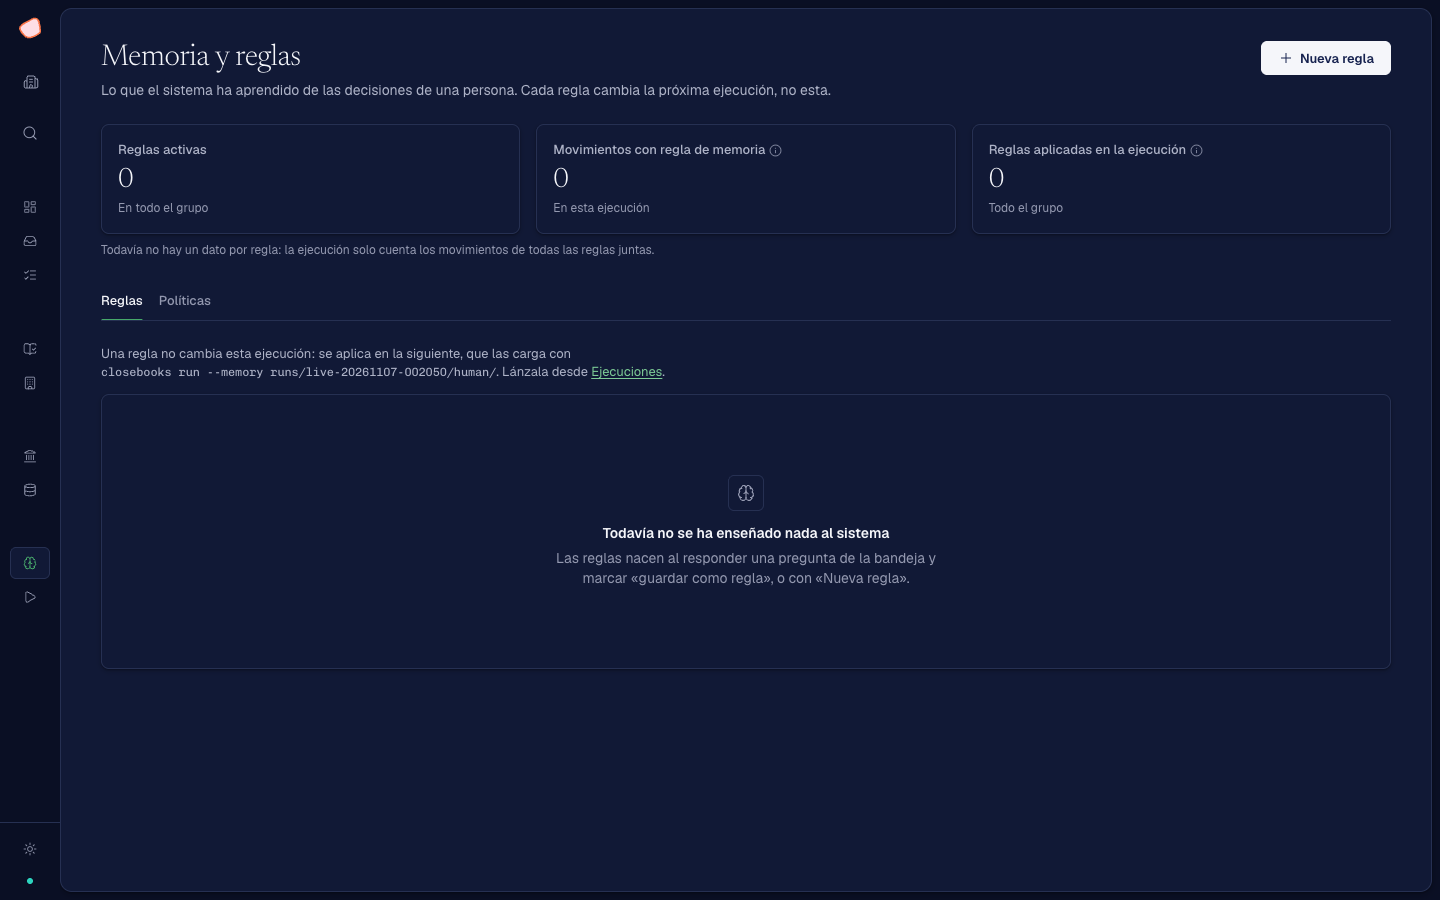
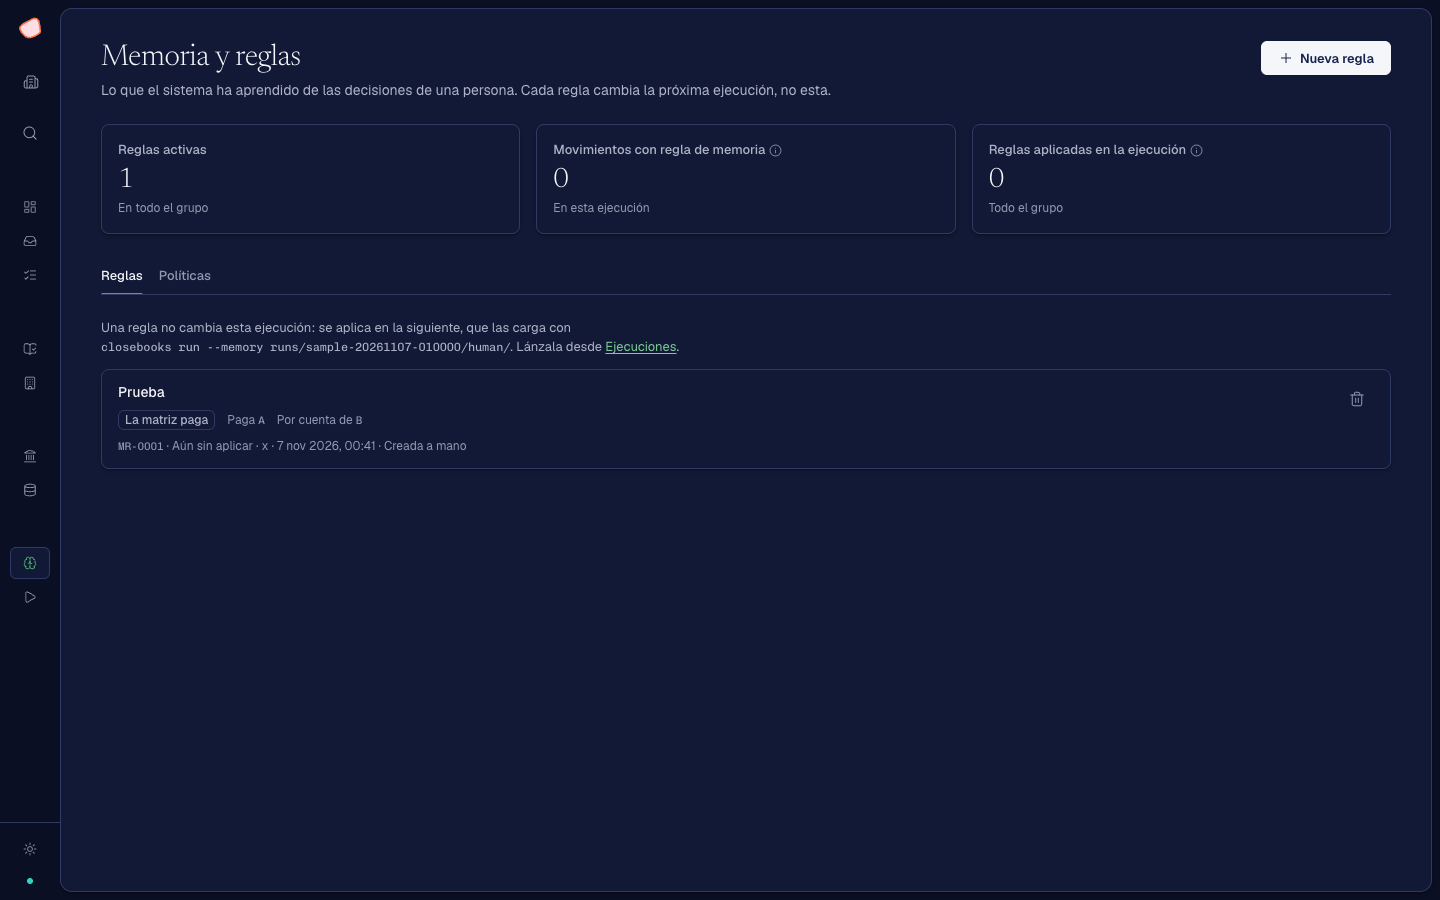
[KPI-7] feat: show how many movements each memory rule affects
* [KPI-7] feat: show how many movements each memory rule affects

* [KPI-7] docs: add memory screenshot with affected movements

diff --git a/app/src/features/memory/RuleList.tsx b/app/src/features/memory/RuleList.tsx
@@ -4,7 +4,7 @@ import { Brain, Trash2 } from 'lucide-react'
 import { Badge, Button, Card, Dialog, EmptyState, IconButton, Mono, Pill, toast } from '@/components'
 import { useMemoryRuleActions, useRunStats } from '@/data'
 import type { MemoryRule } from '@/domain'
-import { formatDateTime } from '@/lib/format'
+import { formatDateTime, formatNumber } from '@/lib/format'
 import { useEntityScope, useScopedTo } from '@/lib/urlState'
 import { keyParams, ruleKindLabel, runCommand } from './model'
 import styles from './RuleList.module.css'
@@ -50,7 +50,7 @@ export function RuleList({ runId, rules }: Props) {
     <div className={styles.wrap}>
       <p className={styles.how}>
         Una regla no cambia esta ejecución: se aplica en la siguiente, que las carga con <Mono>{runCommand(runId)}</Mono>. Lánzala desde{' '}
-        <Link to={link('/ejecuciones', { vista: 'consola' })}>Ejecuciones</Link>.
+        <Link to={link('/ejecuciones', { vista: 'final' })}>Ejecuciones</Link>.
       </p>
 
       {rules.length === 0 ? (
@@ -81,7 +81,7 @@ export function RuleList({ runId, rules }: Props) {
                       ))}
                     </div>
                     <p className={styles.meta}>
-                      <Mono muted>{rule.ruleId}</Mono> · {rule.by} · {formatDateTime(rule.at)} ·{' '}
+                      <Mono muted>{rule.ruleId}</Mono> · {rule.affectedTxns > 0 ? `${formatNumber(rule.affectedTxns)} ${rule.affectedTxns === 1 ? 'movimiento' : 'movimientos'}` : 'Aún sin aplicar'} · {rule.by} · {formatDateTime(rule.at)} ·{' '}
                       {caseId ? (
                         <Link to={link('/bandeja', { ver: caseId })}>
                           Origen: caso <Mono>{caseId}</Mono>

diff --git a/app/src/features/memory/model.test.ts b/app/src/features/memory/model.test.ts
@@ -138,7 +138,7 @@ describe('keyParams', () => {
     createdFrom: {},
     by: '',
     at: '',
-    active: true,
+    active: true, affectedTxns: 0,
   })
   it('lists the params in the order of the form, with their labels, skipping what is empty or unknown', () => {
     expect(keyParams(rule({ forPartyId: 'C2', payerPartyId: 'C1', extra: 'x', empty: '' }))).toEqual([

diff --git a/app/src/features/memory/MemoryPage.tsx b/app/src/features/memory/MemoryPage.tsx
@@ -66,7 +66,6 @@ export function MemoryPage() {
             />
           </Card>
         </div>
-        <p className={styles.note}>Todavía no hay un dato por regla: la ejecución solo cuenta los movimientos de todas las reglas juntas.</p>
       </div>
 
       <Tabs tabs={TABS} value={tab} onChange={setTab} idPrefix="memoria" aria-label="Memoria y reglas" />

diff --git a/app/src/domain/run.ts b/app/src/domain/run.ts
@@ -193,6 +193,8 @@ export interface MemoryRule {
   by: string
   at: string
   active: boolean
+  /** Movements of this run resolved by this rule; 0 until a run has used it. */
+  affectedTxns: number
 }
 
 export type CaseDecisionAction = 'done' | 'review' | 'manual'

diff --git a/app/src/features/memory/MemoryPage.module.css b/app/src/features/memory/MemoryPage.module.css
@@ -10,12 +10,6 @@
   gap: var(--space-4);
 }
 
-.note {
-  margin: 0;
-  font-size: var(--text-12);
-  color: var(--ink-3);
-}
-
 @media (max-width: 900px) {
   .metrics {
     grid-template-columns: minmax(0, 1fr);
